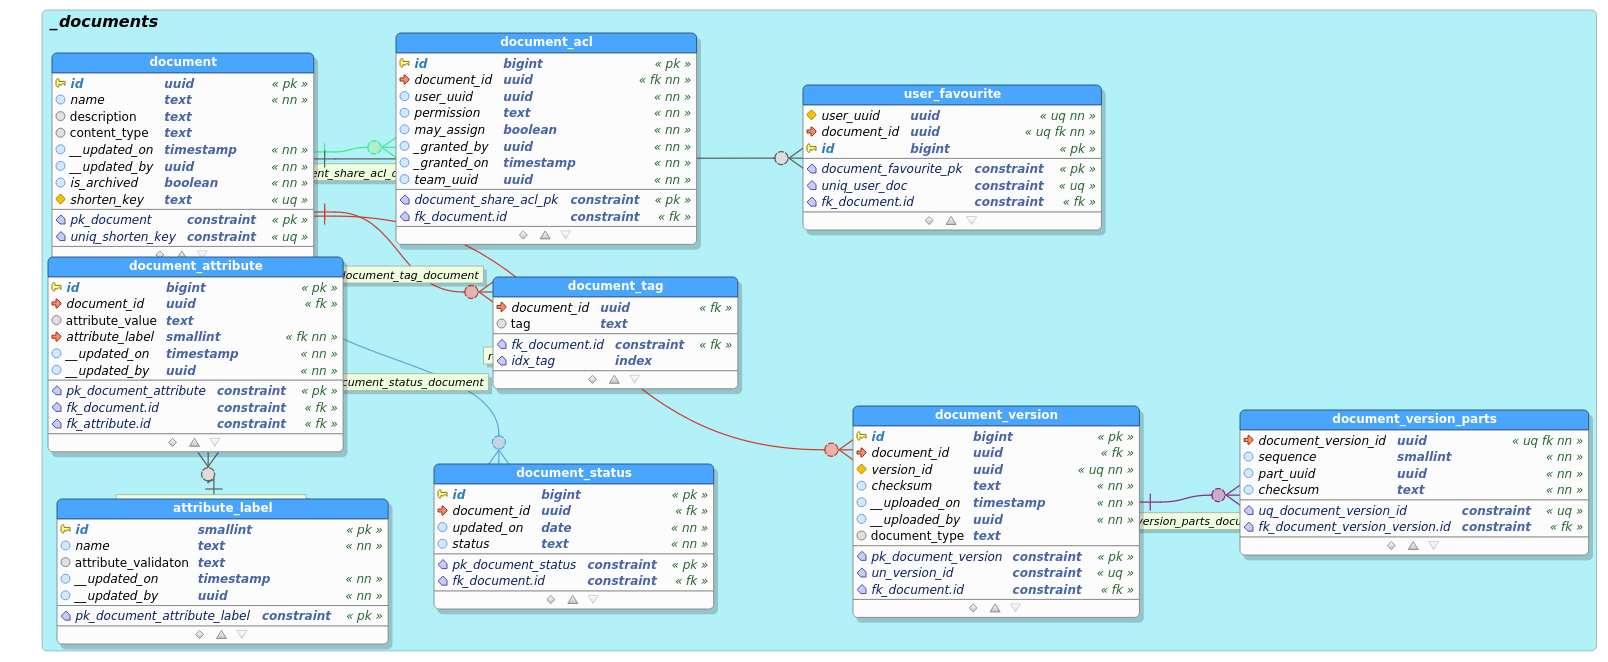
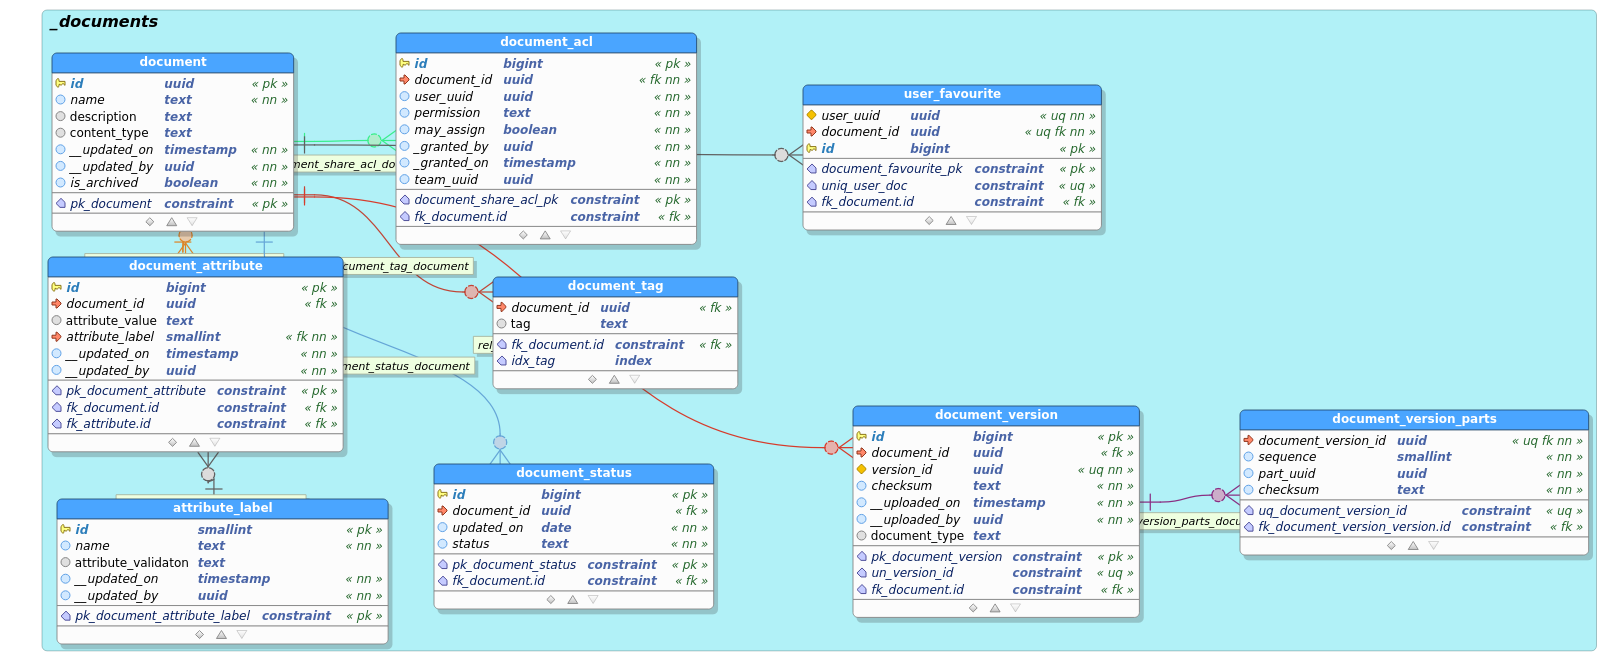
removed shorten key

diff --git a/src/main/java/za/co/grindrodbank/dokuti/document/DocumentServiceImpl.java b/src/main/java/za/co/grindrodbank/dokuti/document/DocumentServiceImpl.java
@@ -43,7 +43,6 @@ import za.co.grindrodbank.dokuti.service.documentdatastoreservice.DocumentDataSt
 import za.co.grindrodbank.dokuti.service.documentdatastoreservice.StorageFileNotFoundException;
 import za.co.grindrodbank.dokuti.service.resourcepermissions.DocumentPermission;
 import za.co.grindrodbank.dokuti.service.resourcepermissions.ResourcePermissionsService;
-import za.co.grindrodbank.dokuti.utilities.RandomString;
 import za.co.grindrodbank.security.service.accesstokenpermissions.SecurityContextUtility;
 
 
@@ -86,26 +85,11 @@ public class DocumentServiceImpl implements DocumentService {
         document.setName(StringUtils.cleanPath(file.getOriginalFilename()));
         document.setUpdatedBy(UUID.fromString(SecurityContextUtility.getUserIdFromJwt()));
         
-        int l = 6; 
-        int k = 0;
-        RandomString tickets = new RandomString(l, new SecureRandom());
-        document.setShortenKey(tickets.nextString());
         for (;;) {
             try {
                 document = documentRepository.save(document);
                 break;
-            } catch (DataIntegrityViolationException e) {
-                document.setShortenKey(tickets.nextString());
-                k++;
-                if (k > 12 ) {
-                    l++;
-                    k = 0;
-                    if (l > 8) {
-                        throw new RuntimeException("Error creating new document: cannot find shortent key");   
-                    }
-                    tickets = new RandomString(l, new SecureRandom());
-                }
-            } catch (Exception e) {
+            }  catch (Exception e) {
                 logger.error(e.getMessage());
                 throw new DatabaseLayerException("Error creating new document", e);
             }

diff --git a/src/main/java/za/co/grindrodbank/dokuti/document/DocumentEntity.java b/src/main/java/za/co/grindrodbank/dokuti/document/DocumentEntity.java
@@ -86,10 +86,6 @@ public class DocumentEntity {
     @OneToMany(mappedBy = "document", cascade = CascadeType.ALL, orphanRemoval = true)
     private List<DocumentFavouriteEntity> documentFavourites = new ArrayList<>();	
     
-    @Type(type = "org.hibernate.type.TextType")
-    @Column(name = "shorten_key", nullable = false)
-    private String shortenKey;    
-
 	public String getContentType() {
 		return contentType;
 	}
@@ -187,14 +183,6 @@ public class DocumentEntity {
         this.isArchived = isArchived;
     }
     
-    public String getShortenKey() {
-        return shortenKey;
-    }
-
-    public void setShortenKey(String shortenKey) {
-        this.shortenKey = shortenKey;
-    }
-
     public DocumentVersionEntity getLatestDocumentVersion() {
 		Optional<DocumentVersionEntity> optionalLatestDocumentVersion = this.getDocumentVersions().stream().findFirst();
 
